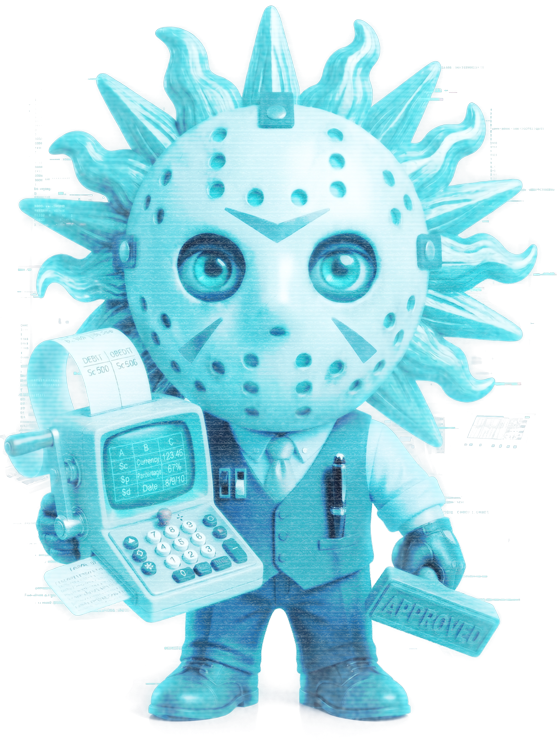
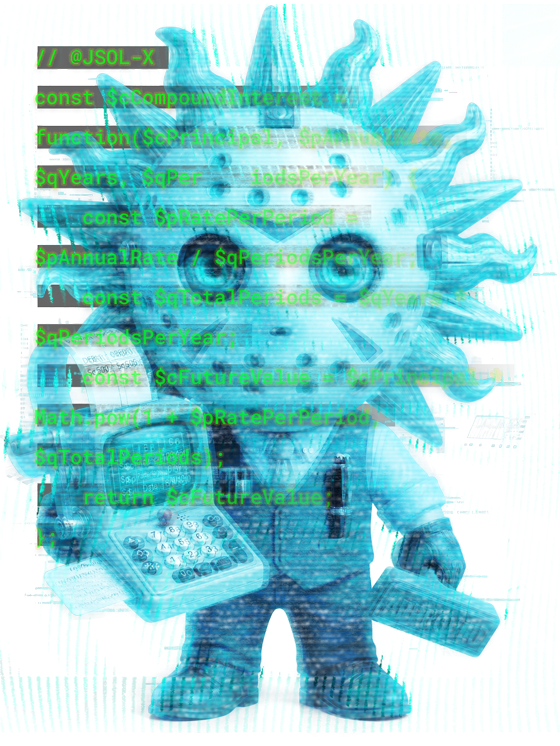
fixed .gitignore, removed .DS_Store cruft

diff --git a/docs/JSOL-X_vision/JSOL-X_README.md b/docs/JSOL-X_vision/JSOL-X_README.md
@@ -19,6 +19,7 @@ JSOL is at v0.2. JSOL-X is not on the roadmap for v1.0, or v2.0. But the type pr
 This directory holds the working documents for that projection. They are speculative by design. Their purpose is to give direction to current specification efforts, not to describe something that exists.
 
 <img src="../../assets/mascot/jsol-x-mascot-hologram-full.png" width="280" alt="JSOL-X mascot, full body">
+_The JSOL-X mascot is a vision at the time: a fuzzy hologram with preliminary JSOL-X code for calculating Compound Interest_
 
 ## Documents
 
